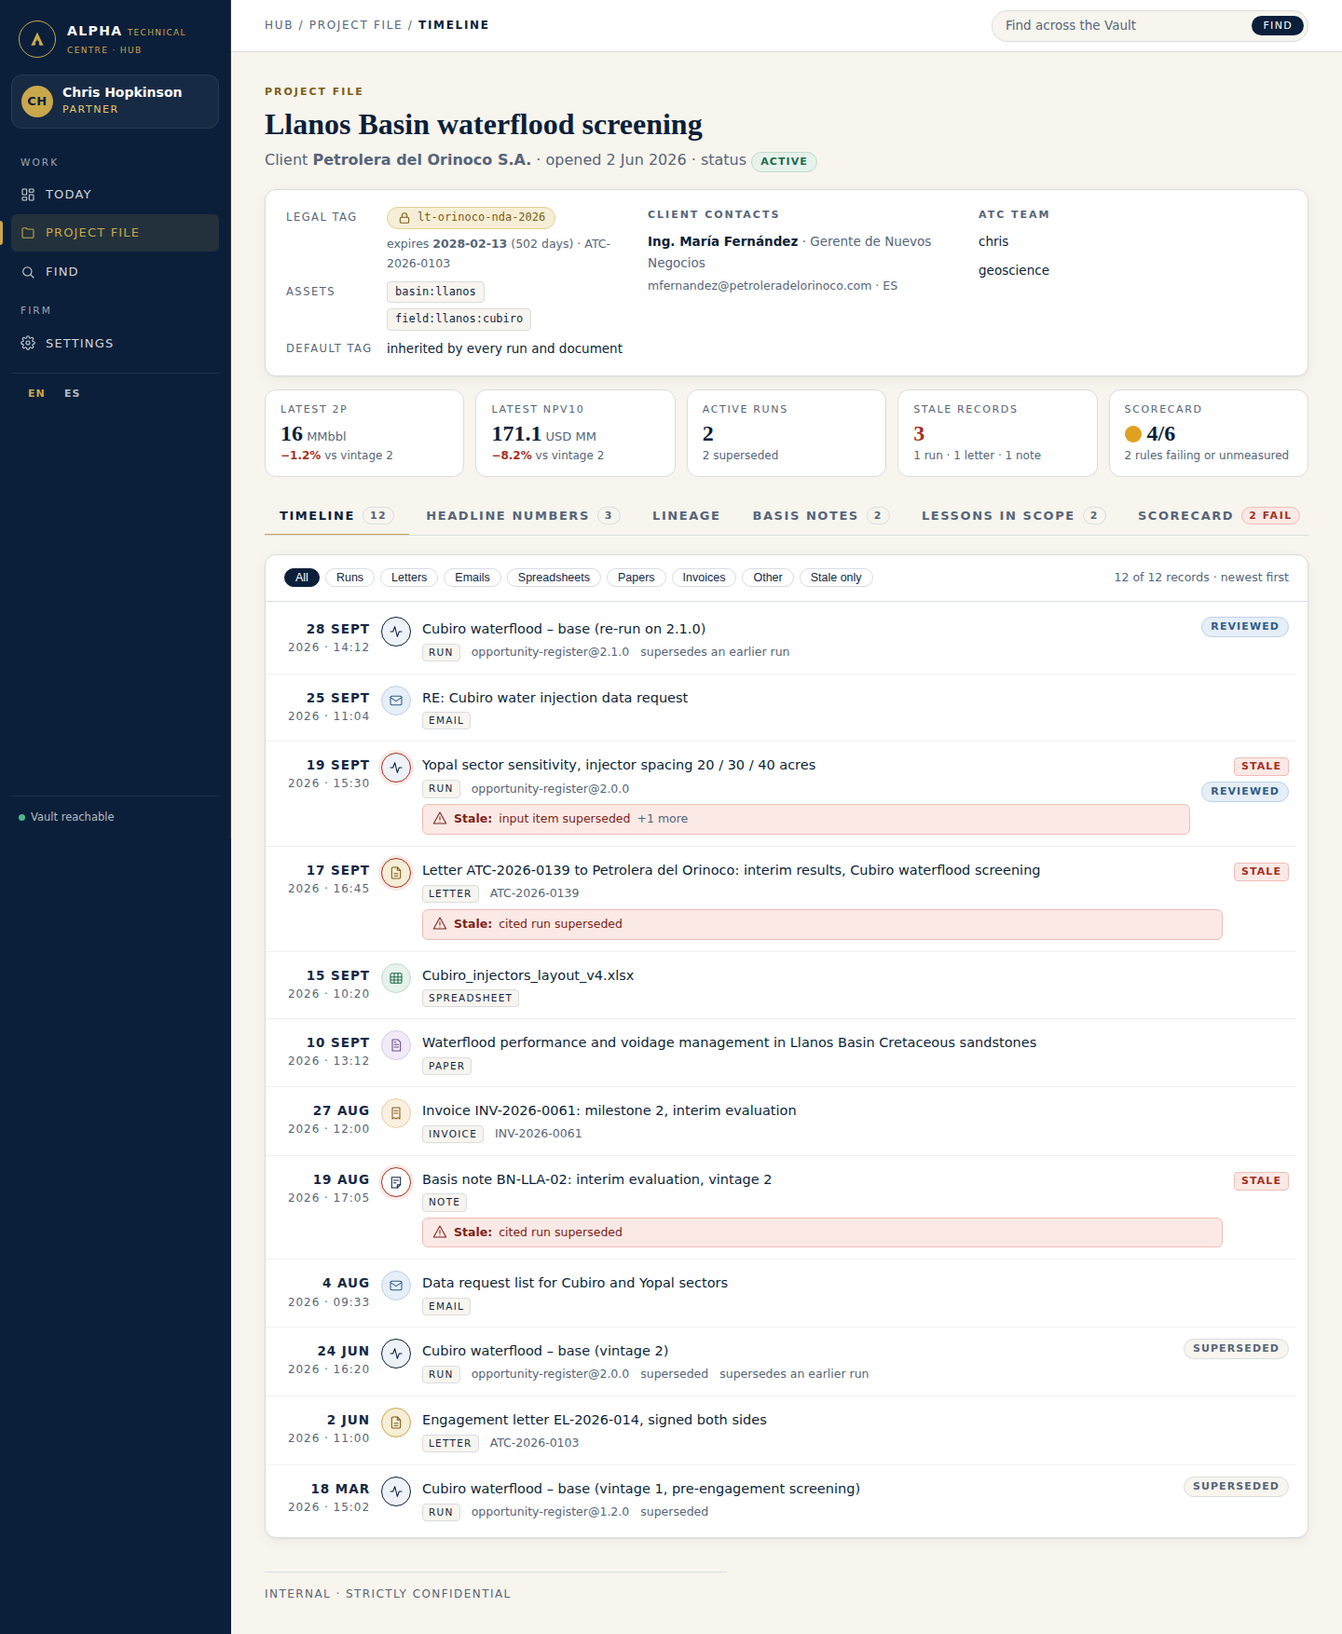
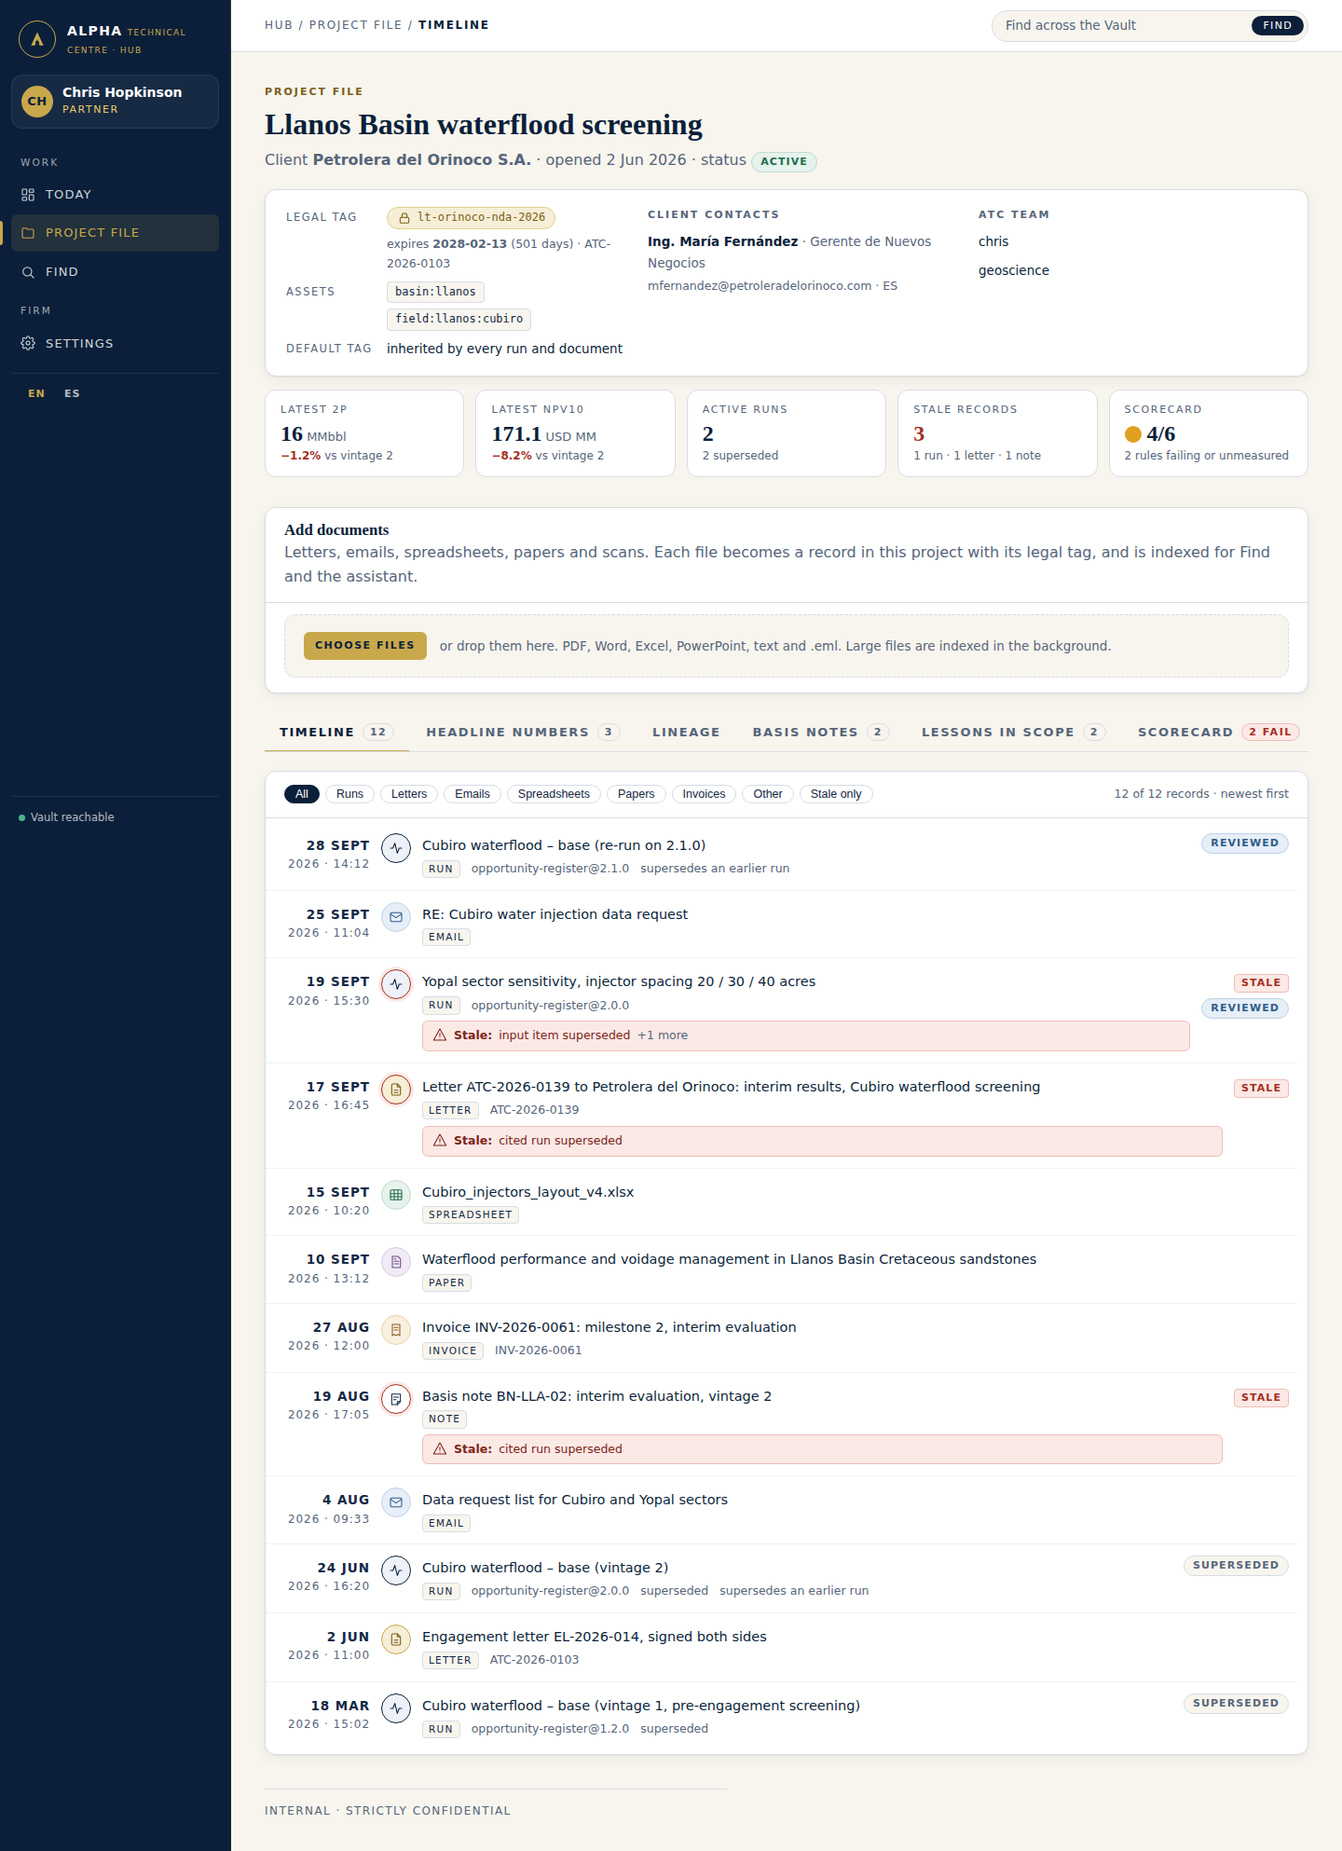
Let staff open projects and add documents from the Hub
The Vault API could receive files (POST /api/ingest/upload) and open
projects (POST /api/projects), but no Hub page called either, so on a
fresh installation there was no way to get a document in: Today showed
only the tool catalog, and the project file had nowhere to drop a file.

Today gains a New project form for partners: the id follows the name as
a slug, the client list comes from the organisations in the Vault, a
client project asks for its legal tag, and the API's refusal is shown
in the form. The project file gains an Add documents panel: files
chosen or dropped go to the upload route as one multipart request with
the project id, and each file's outcome (indexed, queued, already in
the Vault, stored, failed) is shown with its reason. Both keep the
bilingual rule and pass the axe check. Follow-up F9 records that a
client NDA tag still has no route to be created.

Claude-Session: https://claude.ai/code/session_01Cjvnf42mX2Ab9Sf24rXZ1W

diff --git a/hub/hub.js b/hub/hub.js
@@ -330,7 +330,7 @@ function projectName(p) { return p.name || p.title || p.id; }
 function clientName(p) { return p.client_name || (p.client && (p.client.name || p.client)) || p.client_id || ''; }
 function pick(p, ...keys) { for (const k of keys) { const v = k.split('.').reduce((o, x) => (o == null ? o : o[x]), p); if (v !== undefined && v !== null) return v; } return undefined; }
 
-async function renderProjects() {
+async function renderProjects(person) {
   const res = await api('/api/projects?mine=1');
   if (!res.ok) return [];
   const list = listOf(res.body, 'projects', 'items');
@@ -338,7 +338,8 @@ async function renderProjects() {
   sec.removeAttribute('hidden');
   const now = Date.now();
   if (!list.length) {
-    add(grid, mk('div', 'hub-empty', 'No project activity in the last 90 days.', 'Sin actividad en proyectos en los últimos 90 días.'));
+    if (person && person.role === 'partner') add(grid, mk('div', 'hub-empty', 'No project activity in the last 90 days. Use New project to open one.', 'Sin actividad en proyectos en los últimos 90 días. Use Nuevo proyecto para abrir uno.'));
+    else add(grid, mk('div', 'hub-empty', 'No project activity in the last 90 days.', 'Sin actividad en proyectos en los últimos 90 días.'));
     return [];
   }
   for (const p of list) {
@@ -360,6 +361,60 @@ async function renderProjects() {
     add(grid, card);
   }
   return list;
+}
+
+/* ── Today: new project (partners) ───────────────────────────────────── */
+
+/** A project id from a name: ascii, lowercase, hyphens; the API's slug rule. */
+export const slugify = (name) => String(name || '').normalize('NFD').replace(/[\u0300-\u036f]/g, '').toLowerCase().replace(/[^a-z0-9]+/g, '-').replace(/^-+|-+$/g, '').slice(0, 64);
+const SLUG = /^[a-z0-9][a-z0-9-]{1,63}$/;
+
+/**
+ * The New project form: shown to partners only (POST /api/projects requires one). The id follows
+ * the name until edited; a client project also asks for the client's legal tag. On success the
+ * new project file opens; a refusal from the API is shown in the form with its message.
+ */
+function setupNewProject(person) {
+  const btn = $('#btn-new-project'), form = $('#new-project');
+  if (!btn || !form || !person || person.role !== 'partner') return;
+  btn.removeAttribute('hidden');
+  const name = $('#np-name'), id = $('#np-id'), client = $('#np-client'), tagField = $('#np-tag-field'), tag = $('#np-tag'), notices = $('#np-notices');
+  let idTouched = false, orgsLoaded = false;
+  name.addEventListener('input', () => { if (!idTouched) id.value = slugify(name.value); });
+  id.addEventListener('input', () => { idTouched = id.value.trim() !== ''; });
+  client.addEventListener('change', () => { if (client.value) tagField.removeAttribute('hidden'); else tagField.setAttribute('hidden', ''); });
+  const open = async () => {
+    form.removeAttribute('hidden'); btn.setAttribute('aria-expanded', 'true'); name.focus();
+    if (orgsLoaded) return;
+    orgsLoaded = true;
+    const r = await api('/api/organisations');
+    for (const o of listOf(r.body, 'organisations')) if (o && o.id) add(client, dv('option', null, o.name || o.id, { value: o.id }));
+  };
+  const close = () => { form.setAttribute('hidden', ''); btn.setAttribute('aria-expanded', 'false'); btn.focus(); };
+  btn.addEventListener('click', () => (form.hasAttribute('hidden') ? open() : close()));
+  $('#np-cancel').addEventListener('click', close);
+  form.addEventListener('submit', async (ev) => {
+    ev.preventDefault();
+    notices.textContent = '';
+    const body = { id: id.value.trim(), name: name.value.trim(), client_id: client.value || null };
+    if (client.value) body.default_legal_tag = tag.value.trim();
+    if (!body.name || !SLUG.test(body.id)) {
+      add(notices, notice('bad', 'Check the form.', 'Revise el formulario.', 'A name and a project id of lowercase letters, digits and hyphens are required.', 'Se requieren un nombre y un id del proyecto en minúsculas, dígitos y guiones.'));
+      return;
+    }
+    if (client.value && !body.default_legal_tag) {
+      add(notices, notice('bad', 'Check the form.', 'Revise el formulario.', 'A client project needs the id of its legal tag.', 'Un proyecto de cliente necesita el id de su etiqueta legal.'));
+      return;
+    }
+    const submit = form.querySelector('button[type="submit"]');
+    submit.disabled = true;
+    const res = await api('/api/projects', { method: 'POST', headers: { accept: 'application/json', 'content-type': 'application/json' }, body: JSON.stringify(body) });
+    submit.disabled = false;
+    if (res.ok && res.body && res.body.id) { location.href = projectHref(res.body.id); return; }
+    const msg = (res.body && res.body.error && res.body.error.message) || '';
+    if (res.status === 0) add(notices, notice('bad', 'The Vault is unreachable.', 'El Vault no es accesible.', 'The project was not created.', 'No se creó el proyecto.'));
+    else add(notices, notice('bad', 'The project was not created.', 'No se creó el proyecto.', msg || 'HTTP ' + res.status, msg || 'HTTP ' + res.status));
+  });
 }
 
 const ICON = {
@@ -507,7 +562,8 @@ async function initToday() {
   setText($('#today-date'), d.en, d.es);
   const person = await showSession();
   await renderTools(person);
-  const projects = await renderProjects();
+  setupNewProject(person);
+  const projects = await renderProjects(person);
   await Promise.all([renderAttention(projects), renderRuns(projects)]);
   document.body.setAttribute('data-ready', '1');
 }

diff --git a/hub/project.js b/hub/project.js
@@ -142,6 +142,66 @@ function renderHeader(ctx) {
   add(card, twrap);
 }
 
+/* ── add documents (M09 upload) ──────────────────────────────────────── */
+
+const UP_STATUS = {
+  ingested: ['Indexed', 'Indexado', 'ok'], queued: ['Queued for indexing', 'En cola para indexar', 'info'],
+  unchanged: ['Already in the Vault', 'Ya está en el Vault', 'muted'], stored: ['Stored, not indexed', 'Guardado, no indexado', 'warn'],
+  failed: ['Failed', 'Falló', 'bad'],
+};
+
+/**
+ * Files chosen or dropped go to POST /api/ingest/upload as one multipart request with the
+ * project id; the API files each one under the project's legal tag and indexes it (or queues
+ * it). One row per file shows the outcome. The page is not reloaded automatically: the
+ * timeline already on screen stays valid, and a button offers the refresh.
+ */
+function setupUpload(project) {
+  const input = $('#up-files'), drop = $('#up-drop'), list = $('#up-results'), notices = $('#up-notices');
+  if (!input || !drop || !list) return;
+  const send = async (files) => {
+    if (!files || !files.length) return;
+    notices.textContent = '';
+    const fd = new FormData();
+    fd.append('project_id', project.id);
+    for (const f of files) fd.append('files', f, f.name);
+    drop.classList.add('busy');
+    const res = await api('/api/ingest/upload', { method: 'POST', body: fd, signal: AbortSignal.timeout(120000) });
+    drop.classList.remove('busy');
+    input.value = '';
+    if (!res.ok) {
+      const msg = errMessage(res);
+      if (res.status === 0) add(notices, notice('bad', 'The Vault is unreachable.', 'El Vault no es accesible.', 'The files were not uploaded.', 'Los archivos no se subieron.'));
+      else add(notices, notice('bad', 'The files were not uploaded.', 'Los archivos no se subieron.', msg || 'HTTP ' + res.status, msg || 'HTTP ' + res.status));
+      return;
+    }
+    const results = listOf(res.body, 'results');
+    for (const r of results) {
+      const li = mk('li', 'hub-upload-row', null, null, { 'data-upload-file': r.filename || '' });
+      const st = UP_STATUS[r.status] || [r.status || '?', r.status || '?', 'muted'];
+      add(li, dv('b', null, r.filename), mk('span', 'hub-pill ' + st[2], st[0], st[1], { 'data-status': r.status || '' }));
+      const meta = mk('span', 'hub-muted');
+      const bits = [];
+      if (r.type) bits.push(dv('span', null, r.type));
+      if (r.version) bits.push(mk('span', null, 'version ' + r.version, 'versión ' + r.version));
+      if (typeof r.chunks === 'number') bits.push(mk('span', null, r.chunks + ' chunks', r.chunks + ' fragmentos'));
+      if (r.error) bits.push(dv('span', null, r.error));
+      bits.forEach((b, i) => { if (i) add(meta, document.createTextNode(' · ')); add(meta, b); });
+      add(li, meta);
+      add(list, li);
+    }
+    if (results.length && !$('#up-reload')) {
+      const b = mk('button', 'btn btn-outline btn-sm', 'Reload the project file', 'Recargar la ficha del proyecto', { type: 'button', id: 'up-reload' });
+      b.addEventListener('click', () => location.reload());
+      add(list.parentElement, b);
+    }
+  };
+  input.addEventListener('change', () => send(input.files));
+  drop.addEventListener('dragover', (ev) => { ev.preventDefault(); drop.classList.add('over'); });
+  drop.addEventListener('dragleave', () => drop.classList.remove('over'));
+  drop.addEventListener('drop', (ev) => { ev.preventDefault(); drop.classList.remove('over'); send(ev.dataTransfer && ev.dataTransfer.files); });
+}
+
 /* ── scorecard ───────────────────────────────────────────────────────── */
 
 const RULES = [
@@ -522,6 +582,7 @@ async function init() {
   const ctx = { project, org, orgFile, entries, vintages, lineage, runs, basis, now };
 
   renderHeader(ctx);
+  setupUpload(project);
 
   const rules = computeScorecard(ctx);
   const card = renderScorecard(rules);

diff --git a/hub/index.html b/hub/index.html
@@ -111,7 +111,45 @@
             <span class="label" data-en="My projects" data-es="Mis proyectos">My projects</span>
             <h2 id="h-projects" data-en="Where I worked in the last 90 days" data-es="Donde trabajé en los últimos 90 días">Where I worked in the last 90 days</h2>
           </div>
+          <button type="button" class="btn btn-primary btn-sm" id="btn-new-project" hidden aria-expanded="false" aria-controls="new-project" data-en="New project" data-es="Nuevo proyecto">New project</button>
         </div>
+        <form class="card hub-newproj" id="new-project" hidden novalidate>
+          <div class="hub-card-head">
+            <div>
+              <h3 data-en="New project" data-es="Nuevo proyecto">New project</h3>
+              <span class="hub-muted" data-en="A project file holds every run, document, letter and email for one piece of work. An internal project carries the firm tag; a client project carries the client's NDA tag." data-es="La ficha de un proyecto guarda cada ejecución, documento, carta y correo de un trabajo. Un proyecto interno lleva la etiqueta de la firma; un proyecto de cliente lleva la etiqueta del NDA del cliente.">A project file holds every run, document, letter and email for one piece of work. An internal project carries the firm tag; a client project carries the client's NDA tag.</span>
+            </div>
+          </div>
+          <div id="np-notices" role="status"></div>
+          <div class="hub-form-grid">
+            <div class="hub-field">
+              <label for="np-name" data-en="Name" data-es="Nombre">Name</label>
+              <input id="np-name" type="text" required autocomplete="off">
+              <span class="hint" data-en="As it should appear on letters and reports" data-es="Tal como debe aparecer en cartas e informes">As it should appear on letters and reports</span>
+            </div>
+            <div class="hub-field">
+              <label for="np-id" data-en="Project id" data-es="Id del proyecto">Project id</label>
+              <input id="np-id" type="text" required autocomplete="off" pattern="[a-z0-9][a-z0-9-]{1,63}">
+              <span class="hint" data-en="Lowercase letters, digits and hyphens. Used in addresses and citations; it cannot change later." data-es="Minúsculas, dígitos y guiones. Se usa en direcciones y citas; no se puede cambiar después.">Lowercase letters, digits and hyphens. Used in addresses and citations; it cannot change later.</span>
+            </div>
+            <div class="hub-field">
+              <label for="np-client" data-en="Client" data-es="Cliente">Client</label>
+              <select id="np-client">
+                <option value="" data-en="Internal (no client)" data-es="Interno (sin cliente)">Internal (no client)</option>
+              </select>
+              <span class="hint" data-en="From the organisations in the Vault" data-es="De las organizaciones del Vault">From the organisations in the Vault</span>
+            </div>
+            <div class="hub-field" id="np-tag-field" hidden>
+              <label for="np-tag" data-en="Legal tag" data-es="Etiqueta legal">Legal tag</label>
+              <input id="np-tag" type="text" autocomplete="off">
+              <span class="hint" data-en="The id of the client's NDA tag, for example lt-frontera-nda-2026. Every record in the project inherits it." data-es="El id de la etiqueta del NDA del cliente, por ejemplo lt-frontera-nda-2026. Cada registro del proyecto la hereda.">The id of the client's NDA tag, for example lt-frontera-nda-2026. Every record in the project inherits it.</span>
+            </div>
+          </div>
+          <div class="hub-actions">
+            <button type="submit" class="btn btn-primary btn-sm" data-en="Create project" data-es="Crear proyecto">Create project</button>
+            <button type="button" class="btn btn-outline btn-sm" id="np-cancel" data-en="Cancel" data-es="Cancelar">Cancel</button>
+          </div>
+        </form>
         <div class="hub-projects" id="projects-grid"></div>
       </section>
 

diff --git a/hub/project.html b/hub/project.html
@@ -101,6 +101,22 @@
         <div class="card hub-pfile" id="p-file"></div>
         <div class="hub-kpis" id="p-kpis"></div>
 
+        <section class="card hub-upload" id="p-upload" aria-labelledby="h-upload">
+          <div class="hub-card-head">
+            <div>
+              <h3 id="h-upload" data-en="Add documents" data-es="Añadir documentos">Add documents</h3>
+              <span class="hub-muted" data-en="Letters, emails, spreadsheets, papers and scans. Each file becomes a record in this project with its legal tag, and is indexed for Find and the assistant." data-es="Cartas, correos, hojas de cálculo, artículos y escaneos. Cada archivo se convierte en un registro de este proyecto con su etiqueta legal, y se indexa para Buscar y el asistente.">Letters, emails, spreadsheets, papers and scans. Each file becomes a record in this project with its legal tag, and is indexed for Find and the assistant.</span>
+            </div>
+          </div>
+          <div id="up-notices" role="status"></div>
+          <div class="hub-drop" id="up-drop">
+            <label class="btn btn-primary btn-sm hub-file-btn" for="up-files" data-en="Choose files" data-es="Elegir archivos">Choose files</label>
+            <input type="file" id="up-files" multiple class="sr-only">
+            <span class="hub-muted" data-en="or drop them here. PDF, Word, Excel, PowerPoint, text and .eml. Large files are indexed in the background." data-es="o suéltelos aquí. PDF, Word, Excel, PowerPoint, texto y .eml. Los archivos grandes se indexan en segundo plano.">or drop them here. PDF, Word, Excel, PowerPoint, text and .eml. Large files are indexed in the background.</span>
+          </div>
+          <ul class="hub-upload-list" id="up-results" aria-live="polite"></ul>
+        </section>
+
         <div class="hub-tabs" role="tablist" aria-label="Project sections" id="p-tabs"></div>
 
         <div class="hub-tabpanel" role="tabpanel" id="panel-timeline" aria-labelledby="tab-timeline" tabindex="0">

diff --git a/hub/hub.css b/hub/hub.css
@@ -490,3 +490,27 @@ a.hub-proj:hover { border-color: #CDBB85; }
 .hub-vintages td:nth-last-child(3) { min-width: 130px; }
 .hub-vintages th, .hub-vintages td { padding-left: 8px; padding-right: 8px; }
 .hub-basis h3 .hub-tl-title { font-weight: 600; font-size: 1rem; }
+
+/* ---------- new project (Today) and add documents (project file) ---------- */
+.hub-newproj { margin-bottom: 16px; }
+.hub-newproj .hub-form-grid { padding-top: 12px; }
+.hub-newproj #np-notices, .hub-upload #up-notices { padding: 0 20px; }
+.hub-newproj #np-notices .hub-notice, .hub-upload #up-notices .hub-notice { margin: 12px 0 0; }
+.hub-field select {
+  width: 100%; border: 1px solid var(--rule); border-radius: var(--r); padding: 8px 11px; background: var(--white);
+  font: inherit; font-size: 15px; color: var(--navy);
+}
+.hub-field select:focus { outline: none; border-color: var(--gold); box-shadow: 0 0 0 3px rgba(201,168,76,.18); }
+.hub-upload { margin-top: 16px; }
+.hub-drop {
+  margin: 12px 20px 16px; padding: 18px 20px; border: 1.5px dashed var(--rule); border-radius: var(--r-lg);
+  display: flex; align-items: center; gap: 14px; flex-wrap: wrap; background: var(--cream); font-size: 13.5px;
+}
+.hub-drop.over { border-color: var(--gold); background: #FBF7EA; }
+.hub-drop.busy { opacity: .6; pointer-events: none; }
+.hub-file-btn { cursor: pointer; }
+.hub-upload-list { list-style: none; margin: 0; padding: 0 20px; display: grid; gap: 8px; }
+.hub-upload-list:not(:empty) { padding-bottom: 16px; }
+.hub-upload-row { display: flex; align-items: center; gap: 10px; flex-wrap: wrap; font-size: 13.5px; }
+.hub-upload-row b { font-weight: 500; color: var(--navy); overflow-wrap: anywhere; }
+#up-reload { margin: 0 20px 18px; }

diff --git a/docs/vault-hub/08-decision-log.md b/docs/vault-hub/08-decision-log.md
@@ -50,6 +50,7 @@
 | F6 | Two scorecard rule sets | `hub/project.js` (M07) computes the six rules named in the mockup; the server (M17) implements the six rules in the module spec. **Decision: the server rules are canonical.** | Wire the project page and the Today dot to `GET /api/projects/:id/scorecard`; retire the client-side rules |
 | F7 | Evaluation numbers are structural until a real reranker runs | The eval reranker promotes gold refs, so precision measures scoping and citation hygiene; faithfulness is 1.00 because the fake model is extractive | Run `eval/runner.ts` once with `VOYAGE_API_KEY` and a recorded provider to establish the real baseline; keep the gate |
 | F8 | Settings entry for infrastructure costs and budgets | `hub/settings.html` has no form for `infra_costs` and `budgets` | Add the two forms; until then PUT `/api/settings/<key>` |
+| F9 | No route creates a client NDA legal tag | `POST /api/projects` needs an existing `client-nda` tag id for a client project, but tags are only created by `resolveTag` (unions) and the seeds; the Hub's New project form asks for the tag id and shows the API's refusal when it does not exist | Add `POST /api/legal-tags` (partners; classification, client, contract, expiry) and a small form on the organisation file; until then client projects are opened as internal and re-tagged when the NDA record is filed |
 
 ## Build complete (29 Sep 2026)
 
